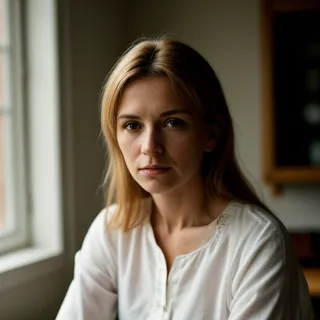
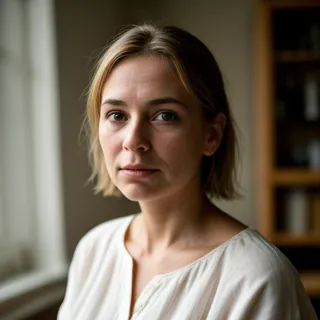
Portretter: første 99, tydeligere alder og opphav i prompt
Claude-Session: https://claude.ai/code/session_017hRgaDiGV5qWSNKCBvVbU5

diff --git a/scripts/generate_portraits.py b/scripts/generate_portraits.py
@@ -26,13 +26,20 @@ SETTINGS = ["in a kitchen at home", "on a street in a Norwegian town", "outdoors
             "in a grocery store parking lot", "on a balcony of an apartment block", "in a small workshop"]
 CLOTHES = ["a knitted sweater", "a rain jacket", "a fleece jacket", "a plain t-shirt", "a flannel shirt", "a hoodie",
            "a cardigan", "a casual blazer", "a wool coat", "a work jacket", "a denim jacket", "a simple blouse"]
-EXTRAS = ["", "", "", "wearing glasses, ", "slight smile, ", "neutral expression, ", "tired eyes, ", "freckles, "]
+EXTRAS = ["", "", "", "with glasses, ", "slight smile, ", "neutral expression, ", "tired eyes, ", "freckles, "]
 
 
 def prompt(sex: str, age: int, nationality: str, rng: random.Random) -> str:
     who = "man" if sex == "mann" else "woman"
-    origin = f"{nationality}-Norwegian " if nationality != "Norwegian" else "Norwegian "
-    return (f"RAW candid portrait photo of a {age} year old {origin}{who}, {rng.choice(EXTRAS)}wearing {rng.choice(CLOTHES)}, "
+    # «Somali-Norwegian» trekker mot et nordisk utseende; «of Somali descent» holder opphavet.
+    origin = "Norwegian " if nationality == "Norwegian" else ""
+    # Modellen gjør middelaldrende kvinner for unge – gi tydelige alderstegn.
+    cue = ("" if age < 40 else "middle-aged, natural skin texture, fine wrinkles, " if age < 58
+           else "older, wrinkled skin, " if age < 75 else "elderly, deeply wrinkled skin, ")
+    shown = {"Somali": "Somali (Black, East African)", "Eritrean": "Eritrean (Black, East African)",
+             "Ethiopian": "Ethiopian (Black, East African)", "Nigerian": "Nigerian (Black, West African)"}.get(nationality, nationality)
+    descent = "" if nationality == "Norwegian" else f" of {shown} descent, living in Norway"
+    return (f"RAW candid portrait photo of a {age} year old {origin}{who}{descent}, {cue}{rng.choice(EXTRAS)}wearing {rng.choice(CLOTHES)}, "
             f"{rng.choice(SETTINGS)}, overcast natural light, head and shoulders, looking at camera, "
             f"ordinary everyday person, 50mm, sharp focus, film grain")
 
